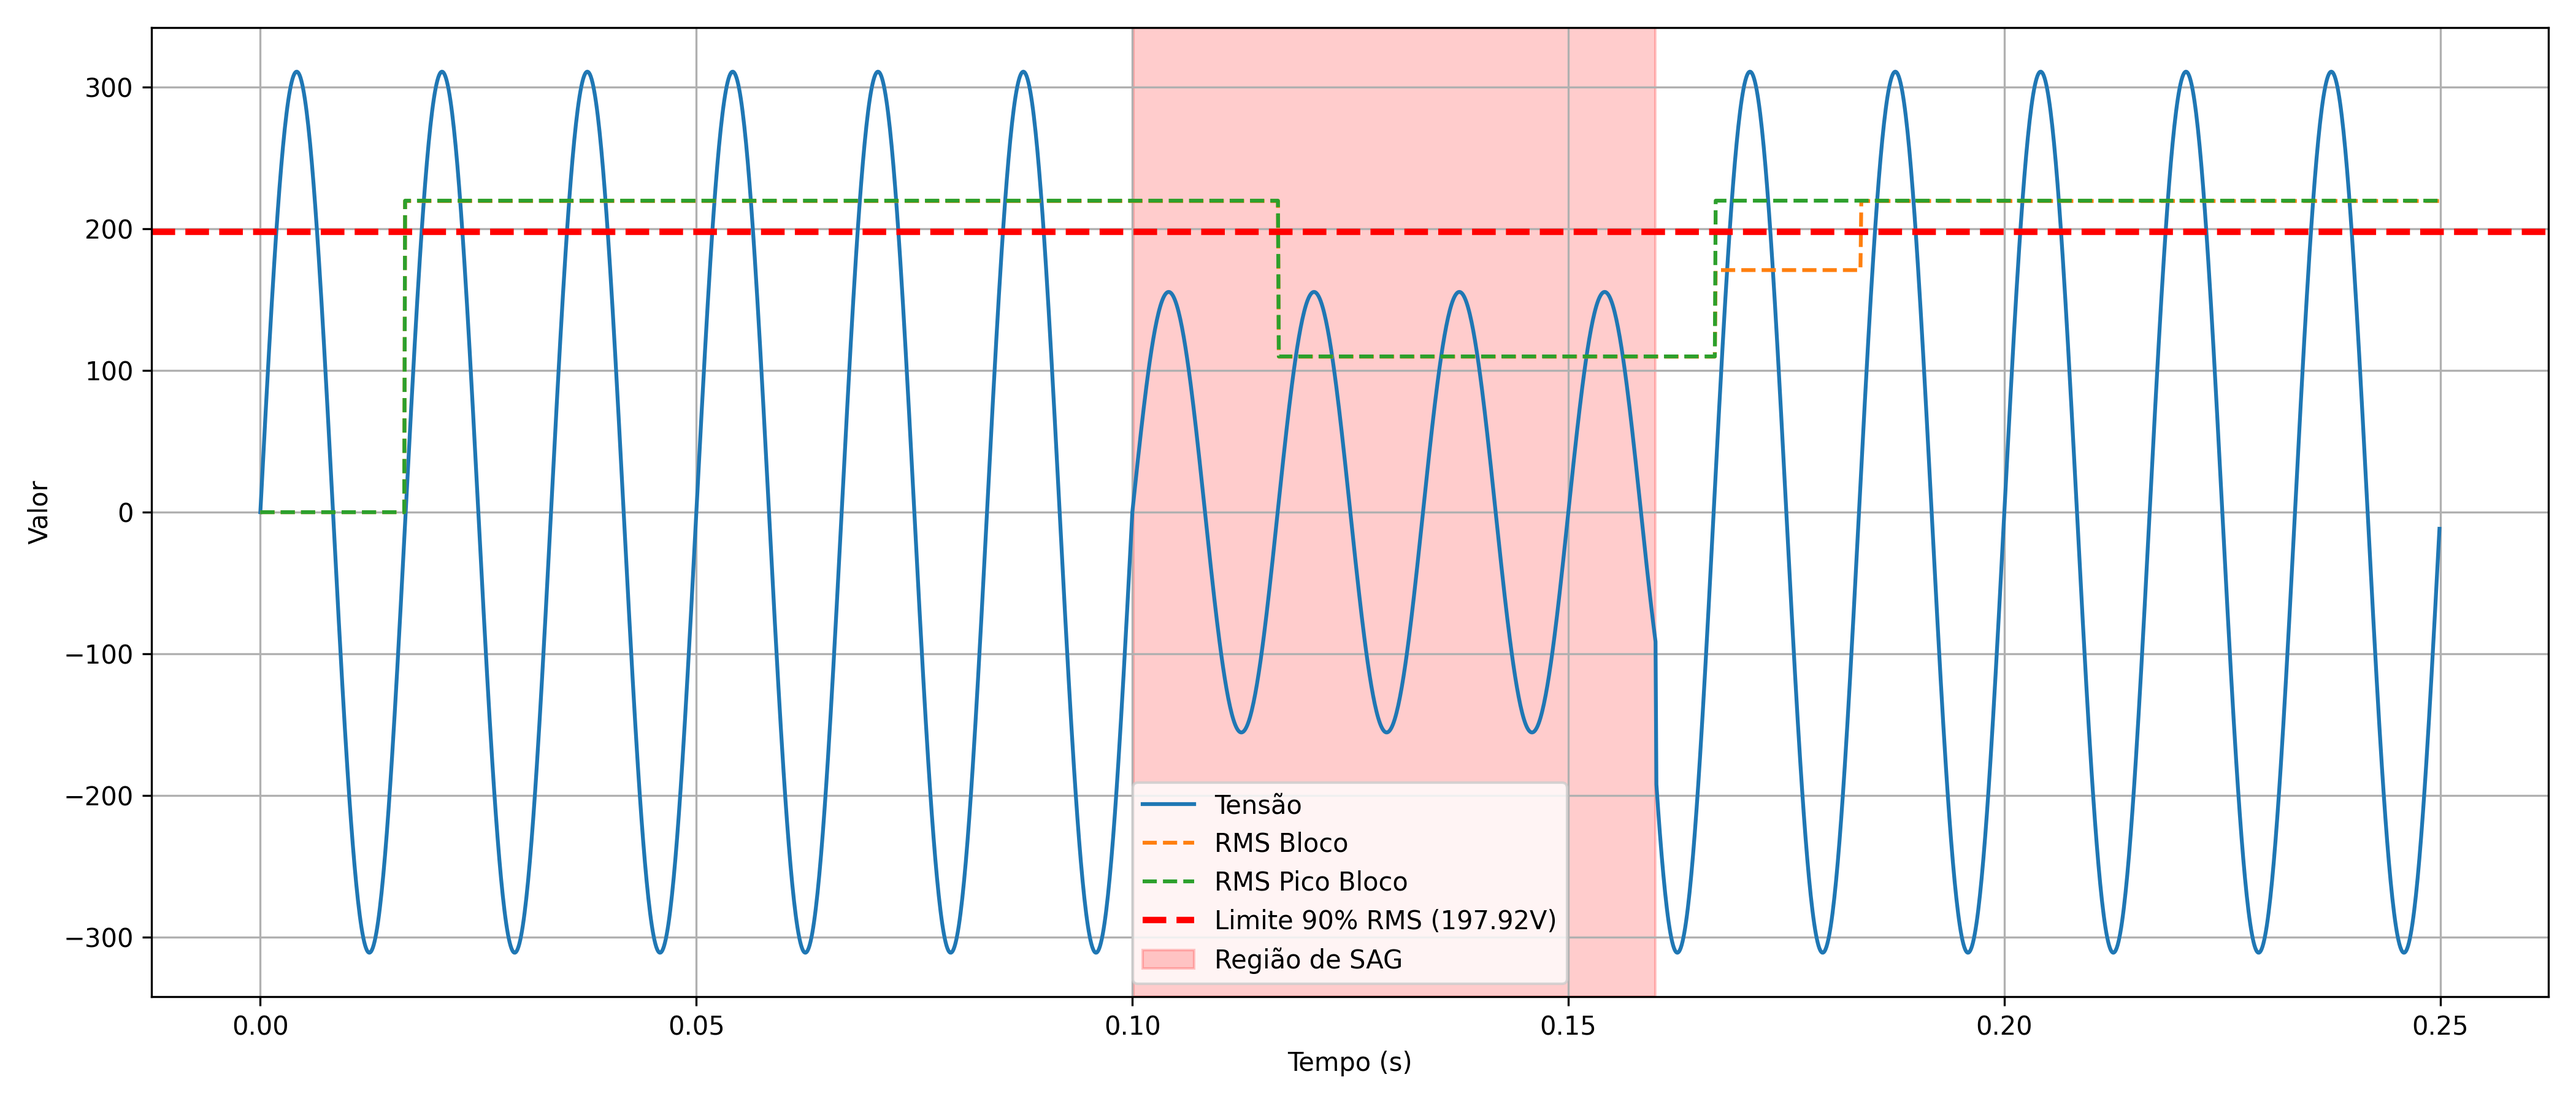
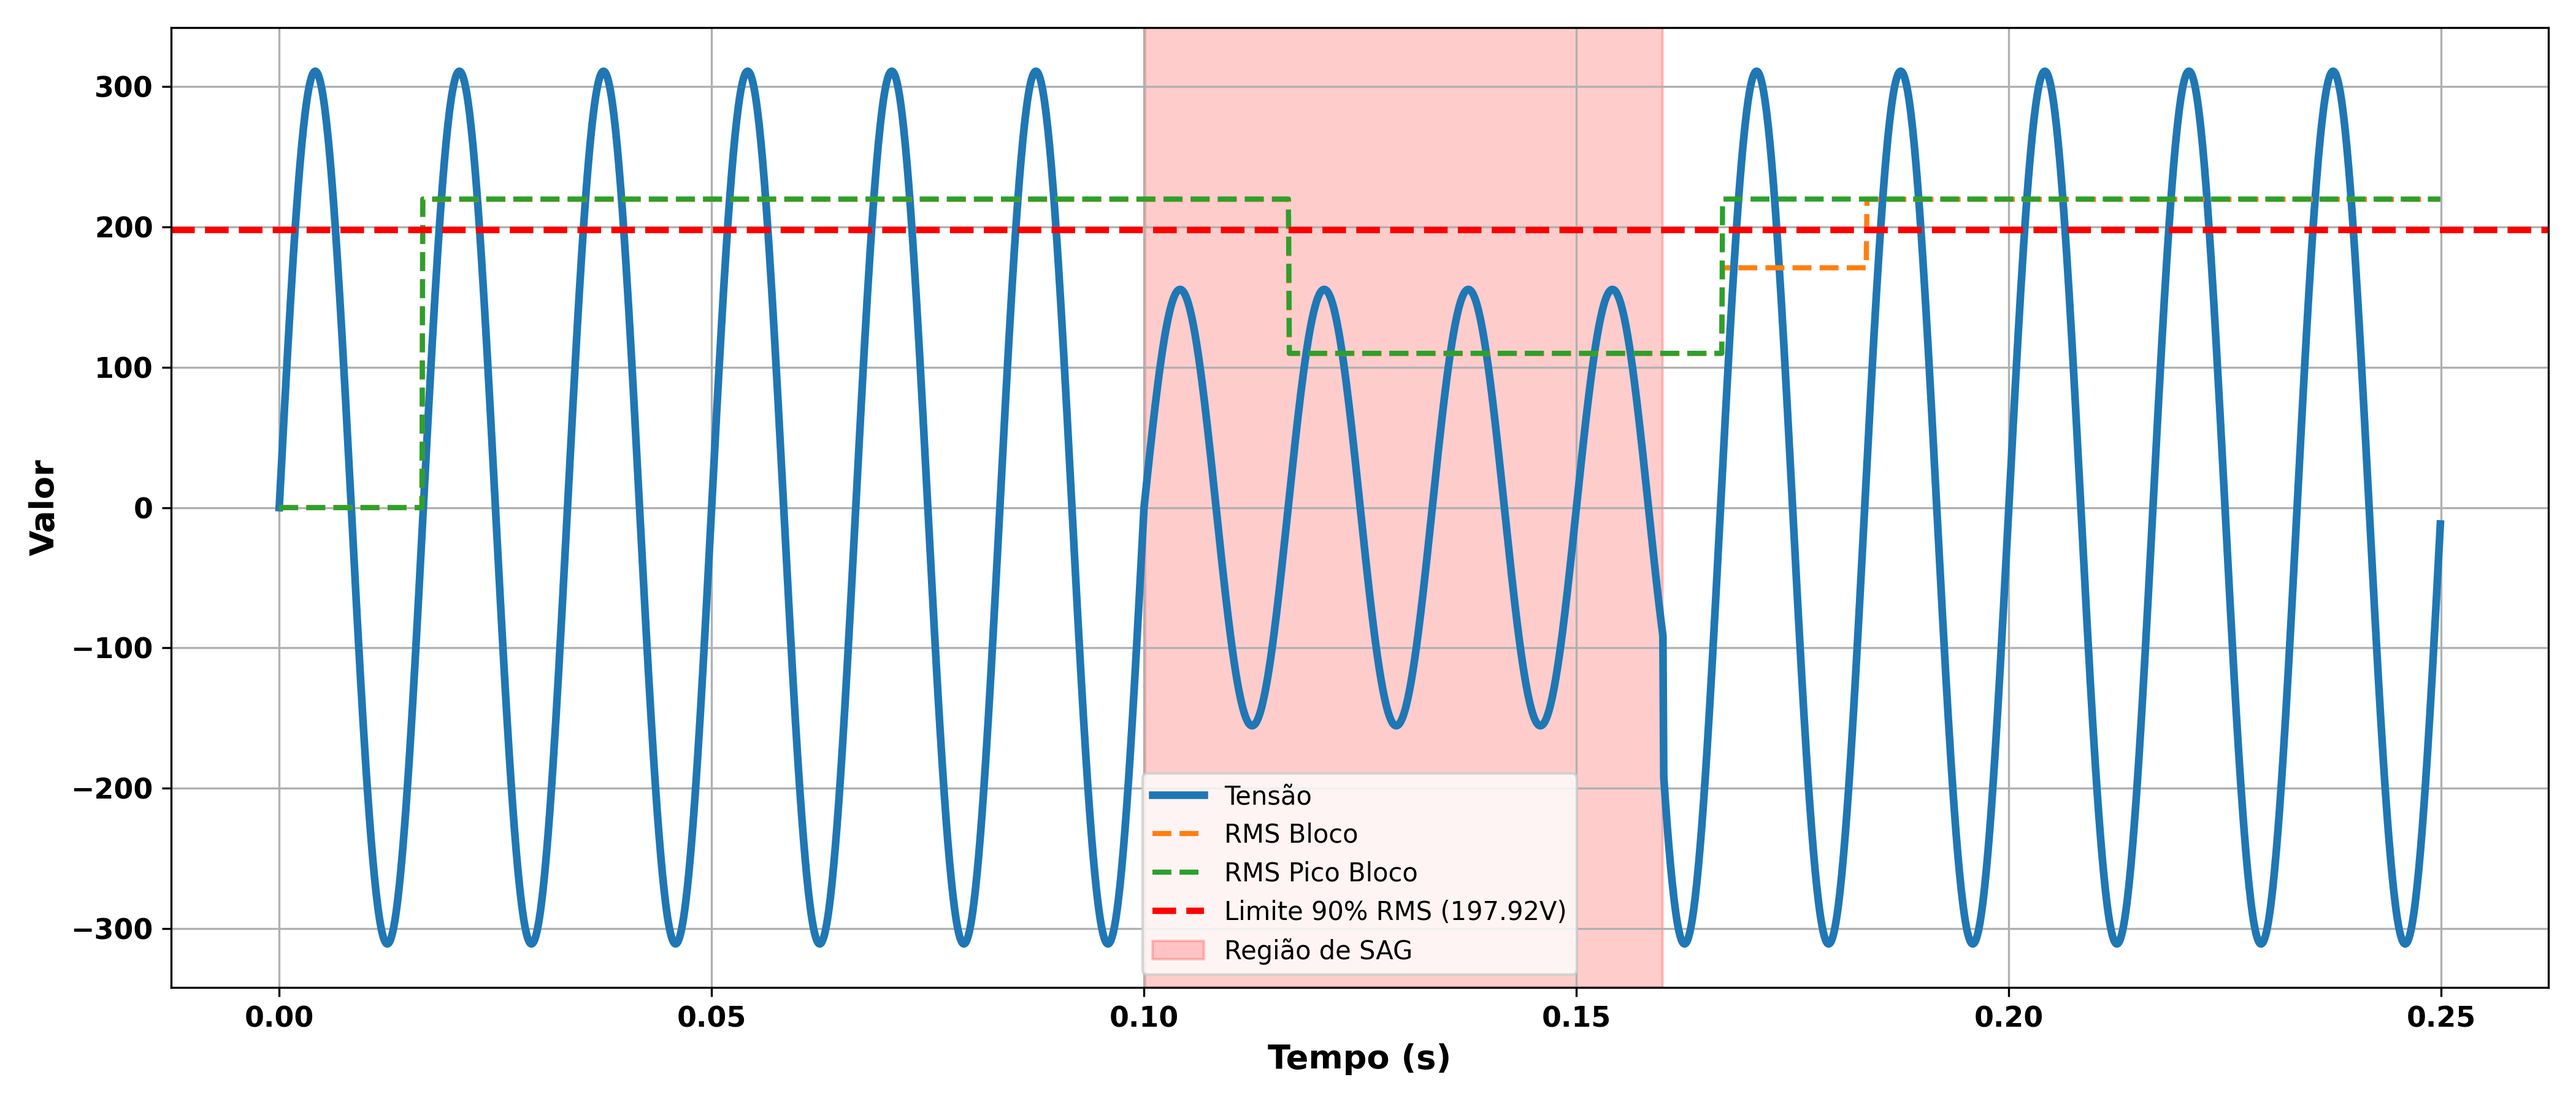
Atualização nos Graficos para Negrito

diff --git a/graficos_res.py b/graficos_res.py
@@ -65,14 +65,16 @@ def t_detect(flag, tempo):
 # 1) Onda Simples com Marcação de SAG
 # ===============================================
 plt.figure(figsize=(14,6))
-plt.plot(tempo, onda, label="Tensão (Onda Senoidal)", alpha=0.7)
+plt.plot(tempo, onda, label="Tensão (Onda Senoidal)", linewidth=3)
 
 # Marcar regiões de SAG
 for t_start, t_end in sag_intervals:
     plt.axvspan(t_start, t_end, alpha=0.2, color="red", label="Região de SAG" if t_start == sag_intervals[0][0] else "")
 # Título: "Onda de Tensão com Marcação de SAG"
-plt.xlabel("Tempo (s)")
-plt.ylabel("Amplitude (V)")
+plt.xlabel("Tempo (s)", fontsize=13, fontweight="bold")
+plt.ylabel("Amplitude (V)", fontsize=13, fontweight="bold")
+plt.xticks(fontsize=11, fontweight="bold")
+plt.yticks(fontsize=11, fontweight="bold")
 plt.legend()
 plt.grid(True)
 plt.tight_layout()
@@ -83,17 +85,19 @@ plt.close()
 # 2) Onda + Comparação dos dois métodos de pico
 # ===============================================
 plt.figure(figsize=(14,6))
-plt.plot(tempo, onda, label="Tensão (Onda Senoidal)", alpha=0.7)
-plt.plot(tempo, pico_meio, label="Pico Meio Ciclo", linestyle="--")
-plt.plot(tempo, pico_ciclo, label="Pico Ciclo Completo", linestyle="--")
+plt.plot(tempo, onda, label="Tensão (Onda Senoidal)", linewidth=3)
+plt.plot(tempo, pico_meio, label="Pico Meio Ciclo", linestyle="--", linewidth=2)
+plt.plot(tempo, pico_ciclo, label="Pico Ciclo Completo", linestyle="--", linewidth=2)
 plt.axhline(y=limite, color="red", linestyle="--", linewidth=2.5, label=f"Limite 90% RMS ({limite:.2f}V)")
 
 # Marcar regiões de SAG
 for t_start, t_end in sag_intervals:
     plt.axvspan(t_start, t_end, alpha=0.2, color="red", label="Região de SAG" if t_start == sag_intervals[0][0] else "")
 # Título: "Comparação de Métodos de Pico"
-plt.xlabel("Tempo (s)")
-plt.ylabel("Amplitude")
+plt.xlabel("Tempo (s)", fontsize=13, fontweight="bold")
+plt.ylabel("Amplitude", fontsize=13, fontweight="bold")
+plt.xticks(fontsize=11, fontweight="bold")
+plt.yticks(fontsize=11, fontweight="bold")
 plt.legend()
 plt.grid(True)
 plt.tight_layout()
@@ -104,17 +108,19 @@ plt.close()
 # 3) Comparativo RMS bloco vs RMS pico-bloco
 # ===============================================
 plt.figure(figsize=(14,6))
-plt.plot(tempo, onda, label="Tensão")
-plt.plot(tempo, rms_bloco, label="RMS Bloco", linestyle="--")
-plt.plot(tempo, rms_pico_bloco, label="RMS Pico Bloco", linestyle="--")
+plt.plot(tempo, onda, label="Tensão", linewidth=3)
+plt.plot(tempo, rms_bloco, label="RMS Bloco", linestyle="--", linewidth=2)
+plt.plot(tempo, rms_pico_bloco, label="RMS Pico Bloco", linestyle="--", linewidth=2)
 plt.axhline(y=limite, color="red", linestyle="--", linewidth=2.5, label=f"Limite 90% RMS ({limite:.2f}V)")
 
 # Marcar regiões de SAG
 for t_start, t_end in sag_intervals:
     plt.axvspan(t_start, t_end, alpha=0.2, color="red", label="Região de SAG" if t_start == sag_intervals[0][0] else "")
 # Título: "RMS Bloco VS RMS Pico Bloco"
-plt.xlabel("Tempo (s)")
-plt.ylabel("Valor")
+plt.xlabel("Tempo (s)", fontsize=13, fontweight="bold")
+plt.ylabel("Valor", fontsize=13, fontweight="bold")
+plt.xticks(fontsize=11, fontweight="bold")
+plt.yticks(fontsize=11, fontweight="bold")
 plt.legend()
 plt.grid(True)
 plt.tight_layout()
@@ -125,17 +131,19 @@ plt.close()
 # 4) RMS Móvel Meio Ciclo x RMS Móvel Ciclo Completo
 # ===============================================
 plt.figure(figsize=(14,6))
-plt.plot(tempo, onda, label="Tensão")
-plt.plot(tempo, rms_movel_meio, label="RMS Móvel Meio Ciclo", linestyle="--")
-plt.plot(tempo, rms_movel_ciclo, label="RMS Móvel Ciclo Completo", linestyle="--")
+plt.plot(tempo, onda, label="Tensão", linewidth=3)
+plt.plot(tempo, rms_movel_meio, label="RMS Móvel Meio Ciclo", linestyle="--", linewidth=2)
+plt.plot(tempo, rms_movel_ciclo, label="RMS Móvel Ciclo Completo", linestyle="--", linewidth=2)
 plt.axhline(y=limite, color="red", linestyle="--", linewidth=2.5, label=f"Limite 90% RMS ({limite:.2f}V)")
 
 # Marcar regiões de SAG
 for t_start, t_end in sag_intervals:
     plt.axvspan(t_start, t_end, alpha=0.2, color="red", label="Região de SAG" if t_start == sag_intervals[0][0] else "")
 # Título: "RMS Móvel: Meio Ciclo vs Ciclo Completo"
-plt.xlabel("Tempo (s)")
-plt.ylabel("Valor")
+plt.xlabel("Tempo (s)", fontsize=13, fontweight="bold")
+plt.ylabel("Valor", fontsize=13, fontweight="bold")
+plt.xticks(fontsize=11, fontweight="bold")
+plt.yticks(fontsize=11, fontweight="bold")
 plt.legend()
 plt.grid(True)
 plt.tight_layout()
@@ -178,21 +186,28 @@ handles = []
 labels = []
 
 for ax, (nome, flag, cor) in zip(axes, lista_ordenada):
-    h, = ax.plot(tempo, flag, color=cor, linewidth=1.7)
-    ax.set_ylabel("Flag")
-    ax.set_title(nome + f" (t={tempo_detect(flag, tempo):.4f}s)")
+    h, = ax.plot(tempo, flag, color=cor, linewidth=2.5)
+    ax.set_ylabel("Flag", fontsize=11, fontweight="bold")
+    ax.set_title(nome + f" (t={tempo_detect(flag, tempo):.4f}s)", fontsize=12, fontweight="bold")
+    ax.tick_params(axis='both', which='major', labelsize=11)
+    for label in ax.get_xticklabels():
+        label.set_fontweight('bold')
+    for label in ax.get_yticklabels():
+        label.set_fontweight('bold')
     ax.grid(True)
 
     handles.append(h)
     labels.append(nome)
 
-axes[-1].set_xlabel("Tempo (s)")
+axes[-1].set_xlabel("Tempo (s)", fontsize=13, fontweight="bold")
 
 # Título: "Flags de Detecção Organizadas do Mais Rápido ao Mais Lento"
 plt.tight_layout()
 
 # Legenda única
-fig.legend(handles, labels, loc="lower center", ncol=3, fontsize=12, bbox_to_anchor=(0.5, -0.05))
+legend = fig.legend(handles, labels, loc="lower center", ncol=3, fontsize=12, bbox_to_anchor=(0.5, -0.05))
+for text in legend.get_texts():
+    text.set_fontweight('bold')
 
 plt.savefig(f"{pasta}/05_flags_subplots.png", dpi=300)
 plt.close()
@@ -231,9 +246,14 @@ cores_ordered = [item[2] for item in tempos_com_info_sorted]
 erros_deteccao_ordered = [td - tempo_sag_real if not np.isnan(td) else np.nan for td in tempos_deteccao_ordered]
 
 fig, ax = plt.subplots(figsize=(14, 6))
-bars = ax.bar(metodos_nomes_ordered, erros_deteccao_ordered, color=cores_ordered, alpha=0.7, edgecolor="black", linewidth=1.5)
-ax.axhline(y=0, color="black", linestyle="-", linewidth=2)
-ax.set_ylabel("Delay (s)", fontsize=12, fontweight="bold")
+bars = ax.bar(metodos_nomes_ordered, erros_deteccao_ordered, color=cores_ordered, alpha=0.7, edgecolor="black", linewidth=2)
+ax.axhline(y=0, color="black", linestyle="-", linewidth=2.5)
+ax.set_ylabel("Delay (s)", fontsize=13, fontweight="bold")
+ax.tick_params(axis='both', which='major', labelsize=11, colors='black')
+for label in ax.get_xticklabels():
+    label.set_fontweight('bold')
+for label in ax.get_yticklabels():
+    label.set_fontweight('bold')
 # Título: "Erro de Detecção - Delay relativo ao SAG Real (Mais Rápido → Mais Lento)"
 ax.grid(True, alpha=0.3, axis="y")
 
